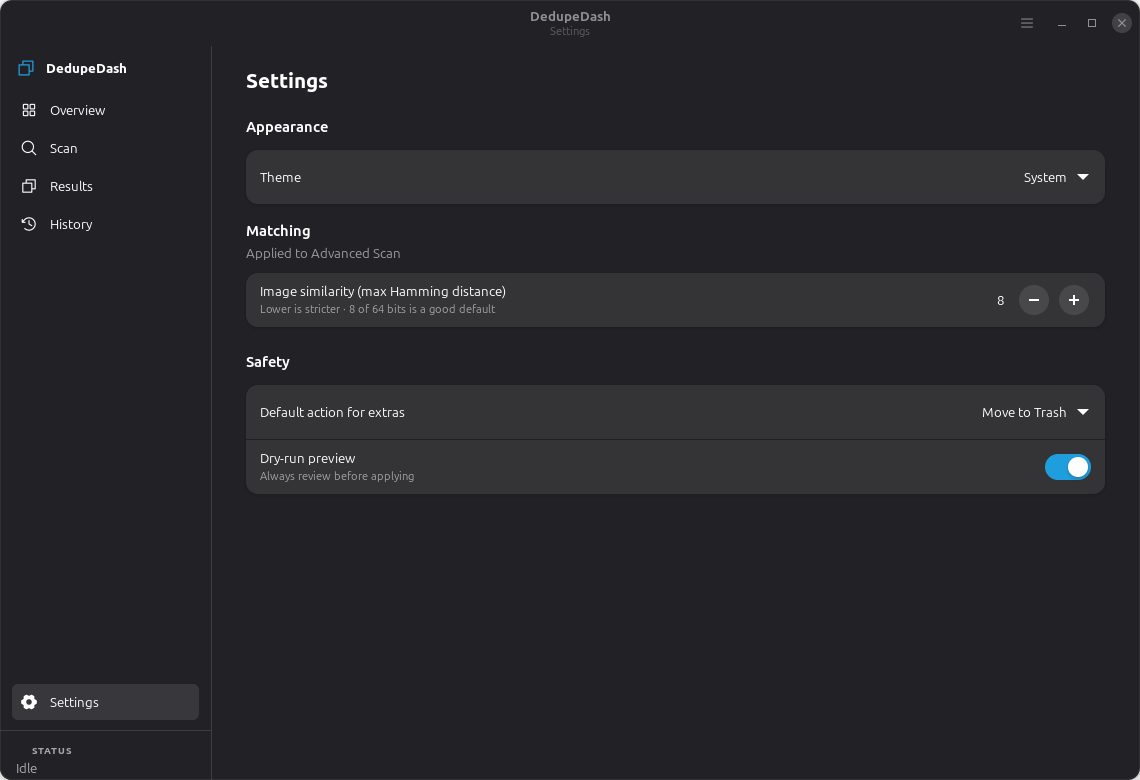
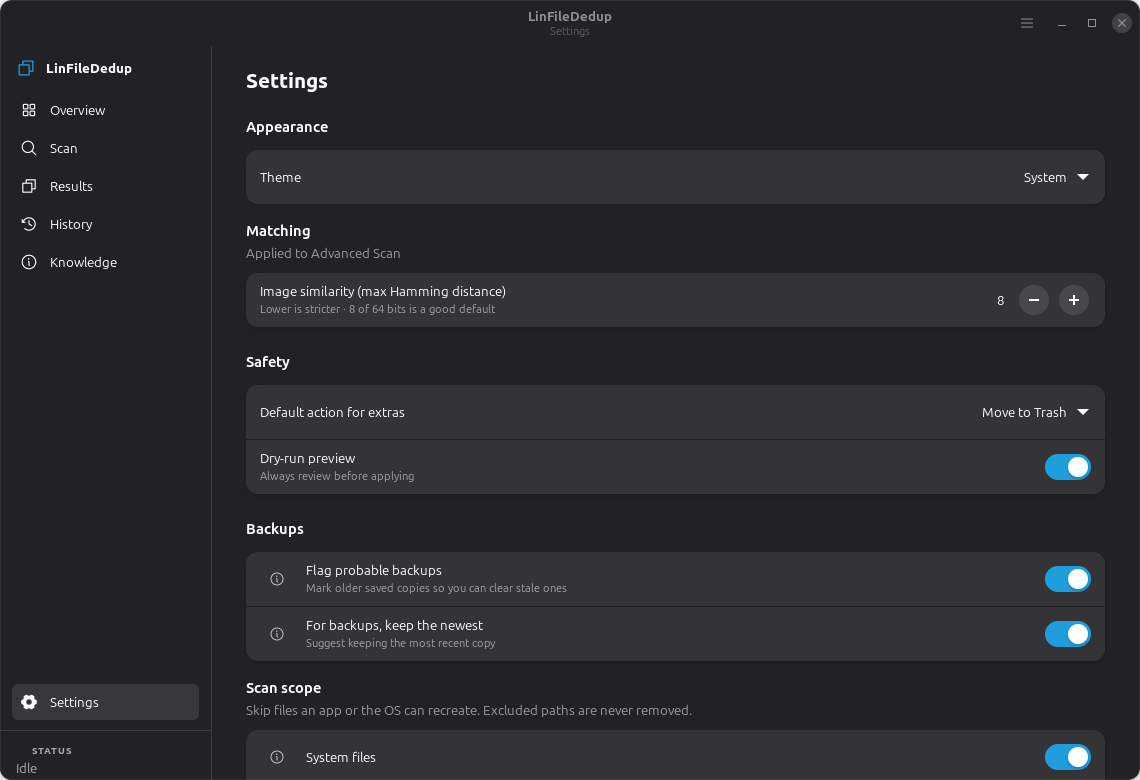
Rename visible app to LinFileDedup; fix reinstall nesting
- Visible product name is now LinFileDedup (uniform with the lin-* series);
  app-id/package/repo stay linfilededuplication. Updated APP_NAME, desktop
  Name, metainfo, About/tray menus, README, docs, LICENSE, and re-captured
  all screenshots so they show the new name.
- Fix install.sh: clean the share payload before copying so a reinstall does
  not nest src/ (which left the old package on PYTHONPATH). Verified user
  install: menu Name=LinFileDedup and `--version` -> LinFileDedup 0.1.0.

diff --git a/docs/mockups/dedupedash-mockups.html b/docs/mockups/dedupedash-mockups.html
@@ -1,4 +1,4 @@
-<title>DedupeDash Mockups</title>
+<title>LinFileDedup Mockups</title>
 <link rel="stylesheet" href="https://fonts.googleapis.com/css2?family=Cantarell:ital,wght@0,400;0,700;1,400&display=swap">
 <style>
   :root{
@@ -273,7 +273,7 @@
 
 <div class="wrap">
   <div class="masthead">
-    <h1>DedupeDash</h1>
+    <h1>LinFileDedup</h1>
     <span class="badge"><span class="swatch"></span>Design-stage mockups</span>
     <div class="toggle" role="group" aria-label="Preview theme">
       <button id="t-light" aria-pressed="false">Light</button>
@@ -292,7 +292,7 @@
     <div class="screen-tag"><span class="n">01</span><h2>Overview</h2><p>Scan roots, reclaimable space, recent runs</p></div>
     <div class="win-scroll"><div class="win">
       <div class="titlebar"><span class="dots"><i></i><i></i><i></i></span>
-        <span class="t"><b>DedupeDash</b> — Overview</span></div>
+        <span class="t"><b>LinFileDedup</b> — Overview</span></div>
       <div class="body">
         <div class="app-sidebar" data-active="overview" data-status="idle"></div>
         <div class="content">
@@ -321,7 +321,7 @@
     <div class="screen-tag"><span class="n">02</span><h2>Scan</h2><p>Simple / Advanced tiers, options, live progress</p></div>
     <div class="win-scroll"><div class="win">
       <div class="titlebar"><span class="dots"><i></i><i></i><i></i></span>
-        <span class="t"><b>DedupeDash</b> — Scanning ~/Pictures</span></div>
+        <span class="t"><b>LinFileDedup</b> — Scanning ~/Pictures</span></div>
       <div class="body">
         <div class="app-sidebar" data-active="scan" data-status="scanning" data-run="scan"></div>
         <div class="content">
@@ -360,7 +360,7 @@
     <div class="screen-tag"><span class="n">03</span><h2>Results</h2><p>Duplicate groups — exact and image near-duplicates, highest resolution kept</p></div>
     <div class="win-scroll"><div class="win">
       <div class="titlebar"><span class="dots"><i></i><i></i><i></i></span>
-        <span class="t"><b>DedupeDash</b> — Results</span></div>
+        <span class="t"><b>LinFileDedup</b> — Results</span></div>
       <div class="body">
         <div class="app-sidebar" data-active="results" data-status="idle" data-count="41"></div>
         <div class="content">
@@ -418,7 +418,7 @@
     <div class="screen-tag"><span class="n">04</span><h2>Confirm removal</h2><p>Adw.AlertDialog — concrete counts, originals kept, recoverable</p></div>
     <div class="win-scroll"><div class="win">
       <div class="titlebar"><span class="dots"><i></i><i></i><i></i></span>
-        <span class="t"><b>DedupeDash</b> — Results</span></div>
+        <span class="t"><b>LinFileDedup</b> — Results</span></div>
       <div class="dialog-stage">
         <div class="dialog">
           <div class="warn-ic"><svg><use href="#ic-trash"/></svg></div>
@@ -439,7 +439,7 @@
     <div class="screen-tag"><span class="n">05</span><h2>Settings — Advanced</h2><p>Matching thresholds, the keep-policy order, safety</p></div>
     <div class="win-scroll"><div class="win">
       <div class="titlebar"><span class="dots"><i></i><i></i><i></i></span>
-        <span class="t"><b>DedupeDash</b> — Settings</span></div>
+        <span class="t"><b>LinFileDedup</b> — Settings</span></div>
       <div class="body">
         <div class="app-sidebar" data-active="settings" data-status="idle"></div>
         <div class="content">
@@ -502,7 +502,7 @@
   document.querySelectorAll('.app-sidebar').forEach(function(sb){
     var active=sb.getAttribute('data-active'), run=sb.getAttribute('data-run'),
         count=sb.getAttribute('data-count'), status=sb.getAttribute('data-status')||'idle';
-    var html='<div class="logo"><span class="mark"><svg viewBox="0 0 24 24"><use href="#ic-results"/></svg></span><span class="name">DedupeDash</span></div><div class="nav">';
+    var html='<div class="logo"><span class="mark"><svg viewBox="0 0 24 24"><use href="#ic-results"/></svg></span><span class="name">LinFileDedup</span></div><div class="nav">';
     NAV.forEach(function(it){
       var on=it[0]===active;
       var tail='';

diff --git a/data/css/app.css b/data/css/app.css
@@ -1,4 +1,4 @@
-/* DedupeDash component styles. Colours come from libadwaita named colours, so light/dark
+/* LinFileDedup component styles. Colours come from libadwaita named colours, so light/dark
  * and the user's accent are handled automatically. Only app-* classes are styled. */
 
 .lfd-window { }

diff --git a/src/linfilededuplication/app.py b/src/linfilededuplication/app.py
@@ -116,7 +116,7 @@ class DedupeApp(Adw.Application):
 def main(argv: list[str] | None = None) -> int:
     argv = list(sys.argv[1:] if argv is None else argv)
     parser = argparse.ArgumentParser(prog="linfilededuplication",
-                                     description="DedupeDash - find and remove duplicate files")
+                                     description="LinFileDedup - find and remove duplicate files")
     parser.add_argument("paths", nargs="*", help="folder(s) to scan")
     parser.add_argument("--version", action="version", version=f"{APP_NAME} {__version__}")
     parser.add_argument("--debug", action="store_true", help="verbose logging")

diff --git a/src/linfilededuplication/__init__.py b/src/linfilededuplication/__init__.py
@@ -1,10 +1,10 @@
-"""linfilededuplication (DedupeDash) — a GTK 4 + libadwaita file-deduplication dashboard.
+"""linfilededuplication (LinFileDedup) — a GTK 4 + libadwaita file-deduplication dashboard.
 
 Identity constants only; no imports, so every layer (including the pure core) can read them.
 """
 from __future__ import annotations
 
 APP_ID = "com.mensuramedia.linfilededuplication"
-APP_NAME = "DedupeDash"          # visible product name
+APP_NAME = "LinFileDedup"          # visible product name
 ICON_PREFIX = "app"              # embedded icons are named "app-<id>-symbolic"
 __version__ = "0.1.0"

diff --git a/src/linfilededuplication/ui/window.py b/src/linfilededuplication/ui/window.py
@@ -34,7 +34,7 @@ class MainWindow(Adw.ApplicationWindow):
         self.title_widget = Adw.WindowTitle(title=APP_NAME, subtitle="")
         header.set_title_widget(self.title_widget)
         menu = Gio.Menu()
-        menu.append(_("About DedupeDash"), "app.about")
+        menu.append(_("About LinFileDedup"), "app.about")
         menu.append(_("Quit"), "app.quit")
         menu_btn = Gtk.MenuButton(icon_name="app-app-menu-symbolic", menu_model=menu,
                                   tooltip_text=_("Main menu"))

diff --git a/src/linfilededuplication/services/tray.py b/src/linfilededuplication/services/tray.py
@@ -24,7 +24,7 @@ def create_tray(app):
         icon.set_tooltip_text(APP_NAME)
 
         menu = Gio.Menu()
-        menu.append(_("Open DedupeDash"), "app.present")
+        menu.append(_("Open LinFileDedup"), "app.present")
         menu.append(_("New scan"), "app.scan")
         menu.append(_("Quit"), "app.quit")
         popover = Gtk.PopoverMenu.new_from_model(menu)

diff --git a/README.md b/README.md
@@ -1,14 +1,14 @@
-# DedupeDash
+# LinFileDedup
 
 **Find and safely remove duplicate and near-duplicate files — with real care for images,
 backups, and your confidence before anything is deleted.**
 
-DedupeDash (`linfilededuplication`) is a native Linux desktop app for Debian 12/13 and Linux
+LinFileDedup (`linfilededuplication`) is a native Linux desktop app for Debian 12/13 and Linux
 Mint, built with **GTK 4 + libadwaita**. It finds exact duplicates, visually similar images,
 and near-identical documents; flags probable backups; and lets you reclaim space **safely** —
 nothing is changed until you review the groups and confirm, and removals go to Trash by default.
 
-![DedupeDash — Results](docs/screenshots/results.png)
+![LinFileDedup — Results](docs/screenshots/results.png)
 
 > Part of the MensuraMedia `lin-*` family of Linux utilities, built on the house
 > `gtk4-dashboard-template` pattern. Runs entirely locally — no accounts, no network, no telemetry.
@@ -18,7 +18,7 @@ nothing is changed until you review the groups and confirm, and removals go to T
 ## Table of contents
 
 - [Feature tour](#feature-tour)
-- [Everything DedupeDash does](#everything-dedupedash-does)
+- [Everything LinFileDedup does](#everything-dedupedash-does)
 - [Desktop integration](#desktop-integration)
 - [Install](#install)
 - [Usage](#usage)
@@ -61,7 +61,7 @@ Interactive design mockups (light and dark) live in
 
 ---
 
-## Everything DedupeDash does
+## Everything LinFileDedup does
 
 ### Matching engine
 
@@ -139,8 +139,8 @@ screen-reader labelled, responsive.
 
 ## Desktop integration
 
-- **Application launcher & menu item** — a `.desktop` entry installs DedupeDash into your
-  applications menu; it also registers for folders (open a folder "with DedupeDash").
+- **Application launcher & menu item** — a `.desktop` entry installs LinFileDedup into your
+  applications menu; it also registers for folders (open a folder "with LinFileDedup").
 - **App icon** — an original icon shipped in `hicolor` (scalable SVG + 16–256 px PNGs), used in
   the menu, the window, and **Alt-Tab** (via `StartupWMClass` / WM_CLASS matching).
 - **Panel / system-tray icon** — an optional `XApp.StatusIcon` (Mint, Cinnamon, and others):
@@ -261,7 +261,7 @@ SpotCheck synced-zoom and A/B difference view, and audio/video preview providers
 ## License
 
 Released under the **Creative Commons Attribution–NonCommercial 4.0 International License
-(CC BY-NC 4.0)**. You are welcome to use, copy, modify, and redistribute DedupeDash for any
+(CC BY-NC 4.0)**. You are welcome to use, copy, modify, and redistribute LinFileDedup for any
 non-commercial purpose, with attribution. **Commercial use requires prior written permission** —
 we're happy to talk; please reach out. Full terms in [`LICENSE.md`](LICENSE.md).
 

diff --git a/LICENSE.md b/LICENSE.md
@@ -1,6 +1,6 @@
 # License
 
-**DedupeDash (linfilededuplication)** is released under the
+**LinFileDedup (linfilededuplication)** is released under the
 **Creative Commons Attribution–NonCommercial 4.0 International License (CC BY‑NC 4.0)**.
 
 Copyright © 2026 MensuraMedia.
@@ -19,7 +19,7 @@ We ask only two things in return:
 1. **Attribution.** Please credit *MensuraMedia* and link back to this project, and indicate
    if you made changes. A simple, honest acknowledgement is all that is needed.
 2. **Non‑commercial use.** Commercial use is not permitted under this license without prior,
-   explicit written permission. If you would like to use DedupeDash — in whole or in part —
+   explicit written permission. If you would like to use LinFileDedup — in whole or in part —
    in a commercial product, service, or offering, we would be glad to talk; please reach out
    to arrange terms. We aim to be reasonable and accommodating.
 
@@ -45,4 +45,4 @@ conversation.
 
 To the extent permitted by law, the software is provided “as is”, without warranty of any kind.
 The authors are not liable for any claim, damages, or other liability arising from its use.
-Because DedupeDash can delete or relink files, please keep backups and use the dry‑run preview.
+Because LinFileDedup can delete or relink files, please keep backups and use the dry‑run preview.

diff --git a/CLAUDE.md b/CLAUDE.md
@@ -1,4 +1,4 @@
-# CLAUDE.md — linfilededuplication (DedupeDash)
+# CLAUDE.md — linfilededuplication (LinFileDedup)
 
 Native Linux desktop app that finds and safely removes duplicate and near-duplicate files.
 GTK 4 + libadwaita, Python / PyGObject. Built from the MensuraMedia `gtk4-dashboard-template`
@@ -42,7 +42,7 @@ Rules of the house:
 ## Conventions
 
 - App id `com.mensuramedia.linfilededuplication`; package `linfilededuplication`; visible
-  name **DedupeDash**; GObject prefix `Lfd`.
+  name **LinFileDedup**; GObject prefix `Lfd`.
 - Icons: embedded Phosphor `-symbolic` SVGs under `data/icons/`, named `app-<id>-symbolic`
   (+ `-active` for nav). Never rely on the system icon theme.
 - Wrap user-visible strings in `_()` (`i18n.py`).

diff --git a/docs/CONCEPT.md b/docs/CONCEPT.md
@@ -1,6 +1,6 @@
-# DedupeDash — Concept & Technical Design
+# LinFileDedup — Concept & Technical Design
 
-**Project:** linfilededuplication (DedupeDash)
+**Project:** linfilededuplication (LinFileDedup)
 **Status:** P0 foundation complete; exact engine + image near-duplicates working
 **Target platform:** Debian 12/13 + Linux Mint
 **Foundation:** MensuraMedia `gtk4-dashboard-template`, ported to GTK 4 + libadwaita
